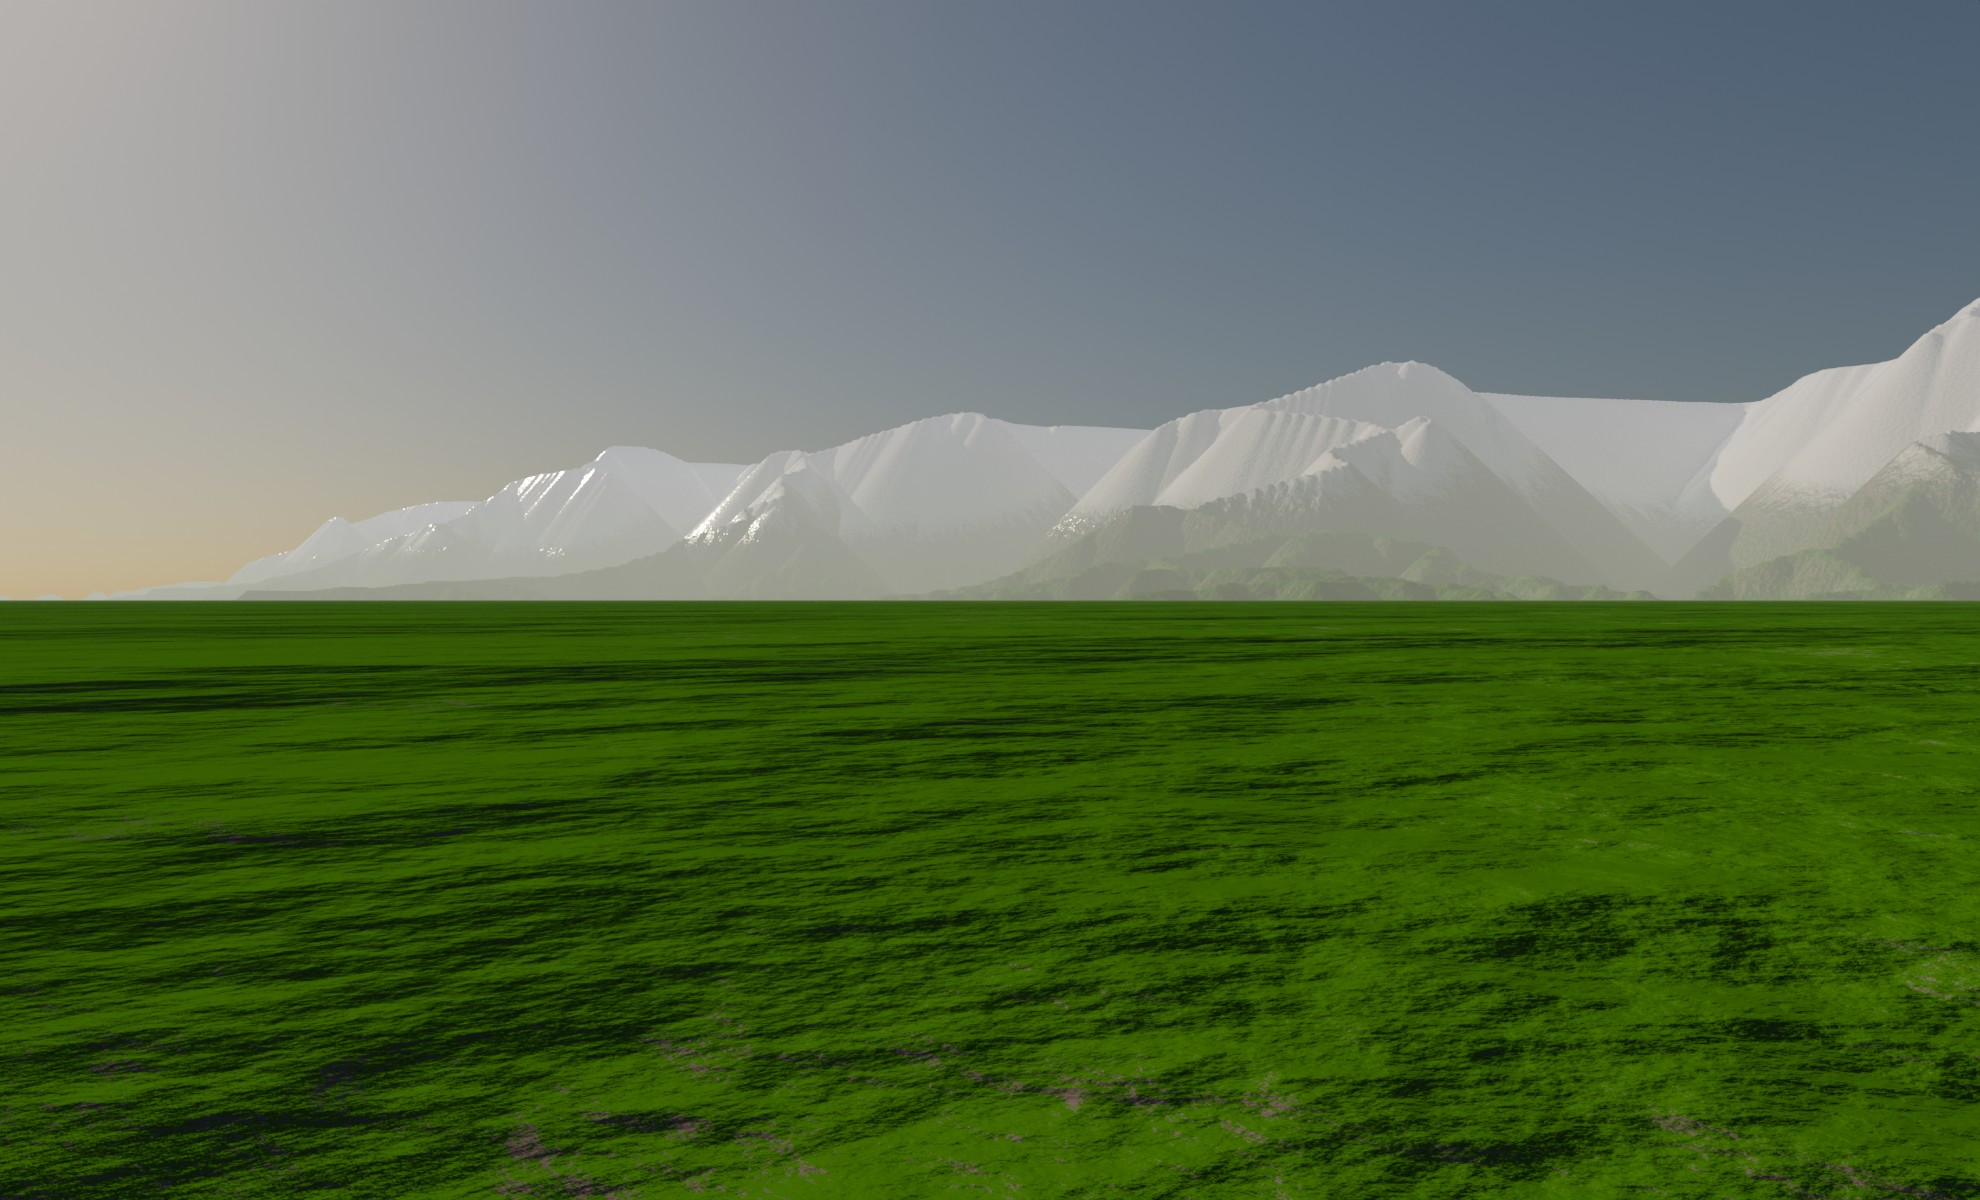
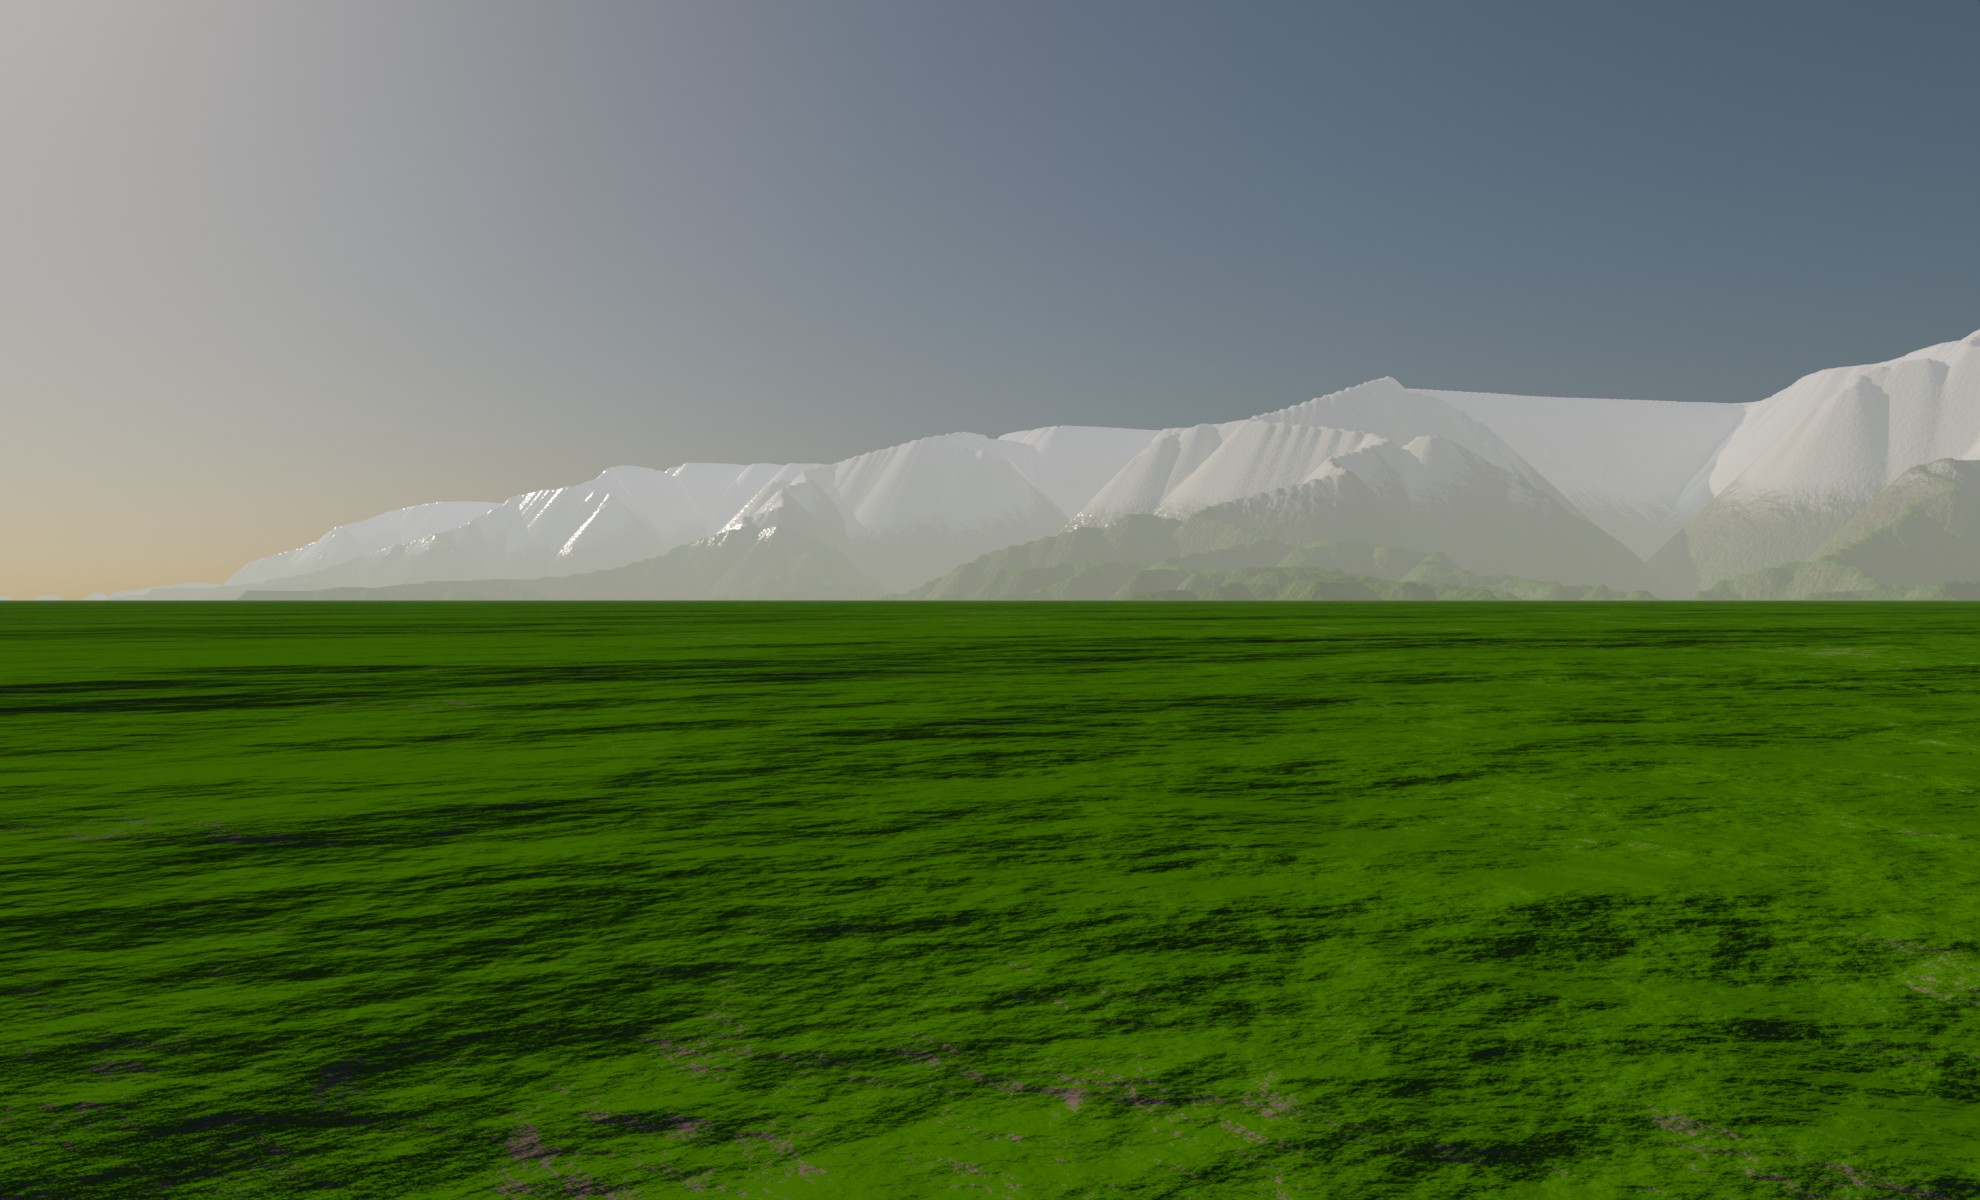
Use two-pass algorithm in order to avoid feedback

diff --git a/lib/generators/ridge_tree_generator/ridge_tree_branch.cpp b/lib/generators/ridge_tree_generator/ridge_tree_branch.cpp
@@ -43,40 +43,22 @@ terraformer::single_array<float> terraformer::generate_elevation_profile(
 }
 
 terraformer::single_array<float> terraformer::generate_elevation_profile(
-	span<location const> branch_curve,
-	float initial_elevation,
-	ridge_elevation_profile_description const& ridge_elevation_profile,
+	span<float const> integrated_curve_length,
 	span<displaced_curve::index_type const> branch_points,
-	peak_elevation_description const& peak_elevation_profile,
+	polynomial<3> const& initial_curve,
+	peak_elevation_description const& elevation_profile,
 	random_generator& rng
 )
 {
-	auto const running_length = curve_running_length_xy(branch_curve);
-	if(running_length.empty())
-	{ return running_length; }
+	// TODO: first element should use the post-modulated value from the parent as begin_elevation
 
-	auto const L = running_length.back();
+	if(integrated_curve_length.empty())
+	{ return terraformer::single_array<float>{}; }
 
-	constexpr auto two_pi = std::numbers::pi_v<float>;
-
-	auto const p_ridge = make_polynomial(
-		cubic_spline_control_point{
-			.y = initial_elevation,
-			.ddx = L*std::tan(two_pi*ridge_elevation_profile.starting_slope)
-		},
-		cubic_spline_control_point{
-			.y = ridge_elevation_profile.final_elevation,
-			.ddx = L*std::tan(two_pi*ridge_elevation_profile.final_slope)
-		}
-	);
-
-	single_array ret{std::size(running_length)};
-	for(auto k = ret.first_element_index(); k != std::size(ret); ++k)
-	{	ret[k] = p_ridge(running_length[k]/L);	}
-
-	auto start_elevation = 0.0f;
-	auto const mod_depth = peak_elevation_profile.mod_depth;
-	array_index<float> start_index{branch_curve.first_element_index().get()};
+	auto const L = integrated_curve_length.back();
+	single_array ret{std::size(integrated_curve_length)};
+	auto begin_elevation = 0.0f;
+	auto begin_index = integrated_curve_length.first_element_index();
 	std::uniform_real_distribution peak_elevation_distribution{0.0f, 1.0f};
 	for(auto k = branch_points.first_element_index();
 		k != std::size(branch_points);
@@ -84,11 +66,11 @@ terraformer::single_array<float> terraformer::generate_elevation_profile(
 	)
 	{
 		array_index<float> const end_index{branch_points[k].get()};
-		auto const dl = running_length[end_index] - running_length[start_index];
+		auto const dl = integrated_curve_length[end_index] - integrated_curve_length[begin_index];
 		auto const end_elevation = peak_elevation_distribution(rng);
 		auto const p_peak = make_polynomial(
 			cubic_spline_control_point{
-				.y = start_elevation,
+				.y = begin_elevation,
 				.ddx = 0.0  // TODO
 			},
 			cubic_spline_control_point{
@@ -97,15 +79,24 @@ terraformer::single_array<float> terraformer::generate_elevation_profile(
 			}
 		);
 
-		for(auto l = start_index; l != end_index; ++l)
+		auto const mod_depth = elevation_profile.mod_depth;
+		for(auto l = begin_index; l != end_index; ++l)
 		{
-			auto const x = running_length[l] - running_length[start_index];
-			ret[l] = ret[l]*(1.0f + mod_depth*p_peak(x/dl));
+			auto const t = integrated_curve_length[l];
+			auto const x = t - integrated_curve_length[begin_index];
+			ret[l] = initial_curve(t/L)*(1.0f + mod_depth*p_peak(x/dl));
 		}
 
-		start_elevation = end_elevation;
-		start_index = end_index;
+		begin_elevation = end_elevation;
+		begin_index = end_index;
 	}
+
+	for(auto l = begin_index; l != std::size(integrated_curve_length); ++l)
+	{
+		auto const t = integrated_curve_length[l];
+		ret[l] = initial_curve(t/L);
+	}
+
 	return ret;
 }
 

diff --git a/lib/generators/ridge_tree_generator/ridge_tree.cpp b/lib/generators/ridge_tree_generator/ridge_tree.cpp
@@ -149,19 +149,20 @@ terraformer::ridge_tree::ridge_tree(
 void terraformer::ridge_tree::update_elevations(
 	elevation initial_elevation,
 	std::span<ridge_tree_branch_elevation_profile const> elevation_profiles,
-	random_generator /*rng*/
+	random_generator rng
 )
 {
 	span<ridge_tree_trunk> branches{m_value};
 	for(auto& current_trunk : branches)
 	{
+		current_trunk.elevation_data.clear();
 		auto const level = current_trunk.level;
 
 		if(level >= std::size(elevation_profiles))
 		{ return; }
 
 		auto const my_curves = current_trunk.branches.get<0>();
-		auto const& curve_lengths = std::as_const(current_trunk.branches).get<3>();
+		auto const curve_lengths = std::as_const(current_trunk.branches).get<3>();
 		auto const parent = current_trunk.parent;
 		if(parent == ridge_tree_trunk::no_parent)
 		{
@@ -199,19 +200,46 @@ void terraformer::ridge_tree::update_elevations(
 		{
 			auto const point_on_parent = parent_curve[start_index[k]];
 			elevation const z_0{point_on_parent[2]};
-			auto const polynomial = create_polynomial(
+			auto const elev_function = create_polynomial(
 				curve_lengths[k].back(),
 				z_0,
 				elevation_profiles[level].ridge
 			);
 
-			auto const elevation_profile = generate_elevation_profile(curve_lengths[k], polynomial);
+			auto const elevation_profile = generate_elevation_profile(curve_lengths[k], elev_function);
 			replace_z_inplace(my_curves[k].points(), elevation_profile);
-			current_trunk.elevation_data.push_back(polynomial);
+			current_trunk.elevation_data.push_back(elev_function);
 		}
 	}
 
-//	auto const& branches_at = std::as_const(current_trunk.branches).get<2>();
+	for(auto& current_trunk : branches)
+	{
+		auto const level = current_trunk.level;
+		if(level >= std::size(elevation_profiles))
+		{ return; }
+
+
+		auto const my_curves = current_trunk.branches.get<0>();
+		auto const branches_at = std::as_const(current_trunk.branches).get<2>();
+		auto const curve_lengths = std::as_const(current_trunk.branches).get<3>();
+
+		for(auto k = current_trunk.branches.first_element_index();
+			k != std::size(current_trunk.branches);
+			++k
+		)
+		{
+			auto const elevation_profile = generate_elevation_profile(
+				curve_lengths[k],
+				branches_at[k],
+				current_trunk.elevation_data[array_index<polynomial<3>>{k.get()}],
+				elevation_profiles[level].peaks,
+				rng
+			);
+
+			replace_z_inplace(my_curves[k].points(), elevation_profile);
+		}
+	}
+
 }
 
 void terraformer::render(

diff --git a/lib/generators/ridge_tree_generator/ridge_tree_branch.hpp b/lib/generators/ridge_tree_generator/ridge_tree_branch.hpp
@@ -43,11 +43,10 @@ namespace terraformer
 	};
 
 	single_array<float> generate_elevation_profile(
-		span<location const> branch_curve,
-		float initial_elevation,
-		ridge_elevation_profile_description const& ridge_elevation_profile,
+		span<float const> integrated_curve_length,
 		span<displaced_curve::index_type const> branch_points,
-		peak_elevation_description const& peak_elevation_profile,
+		polynomial<3> const& initial_curve,
+		peak_elevation_description const& elevation_profile,
 		random_generator& rng
 	);
 
